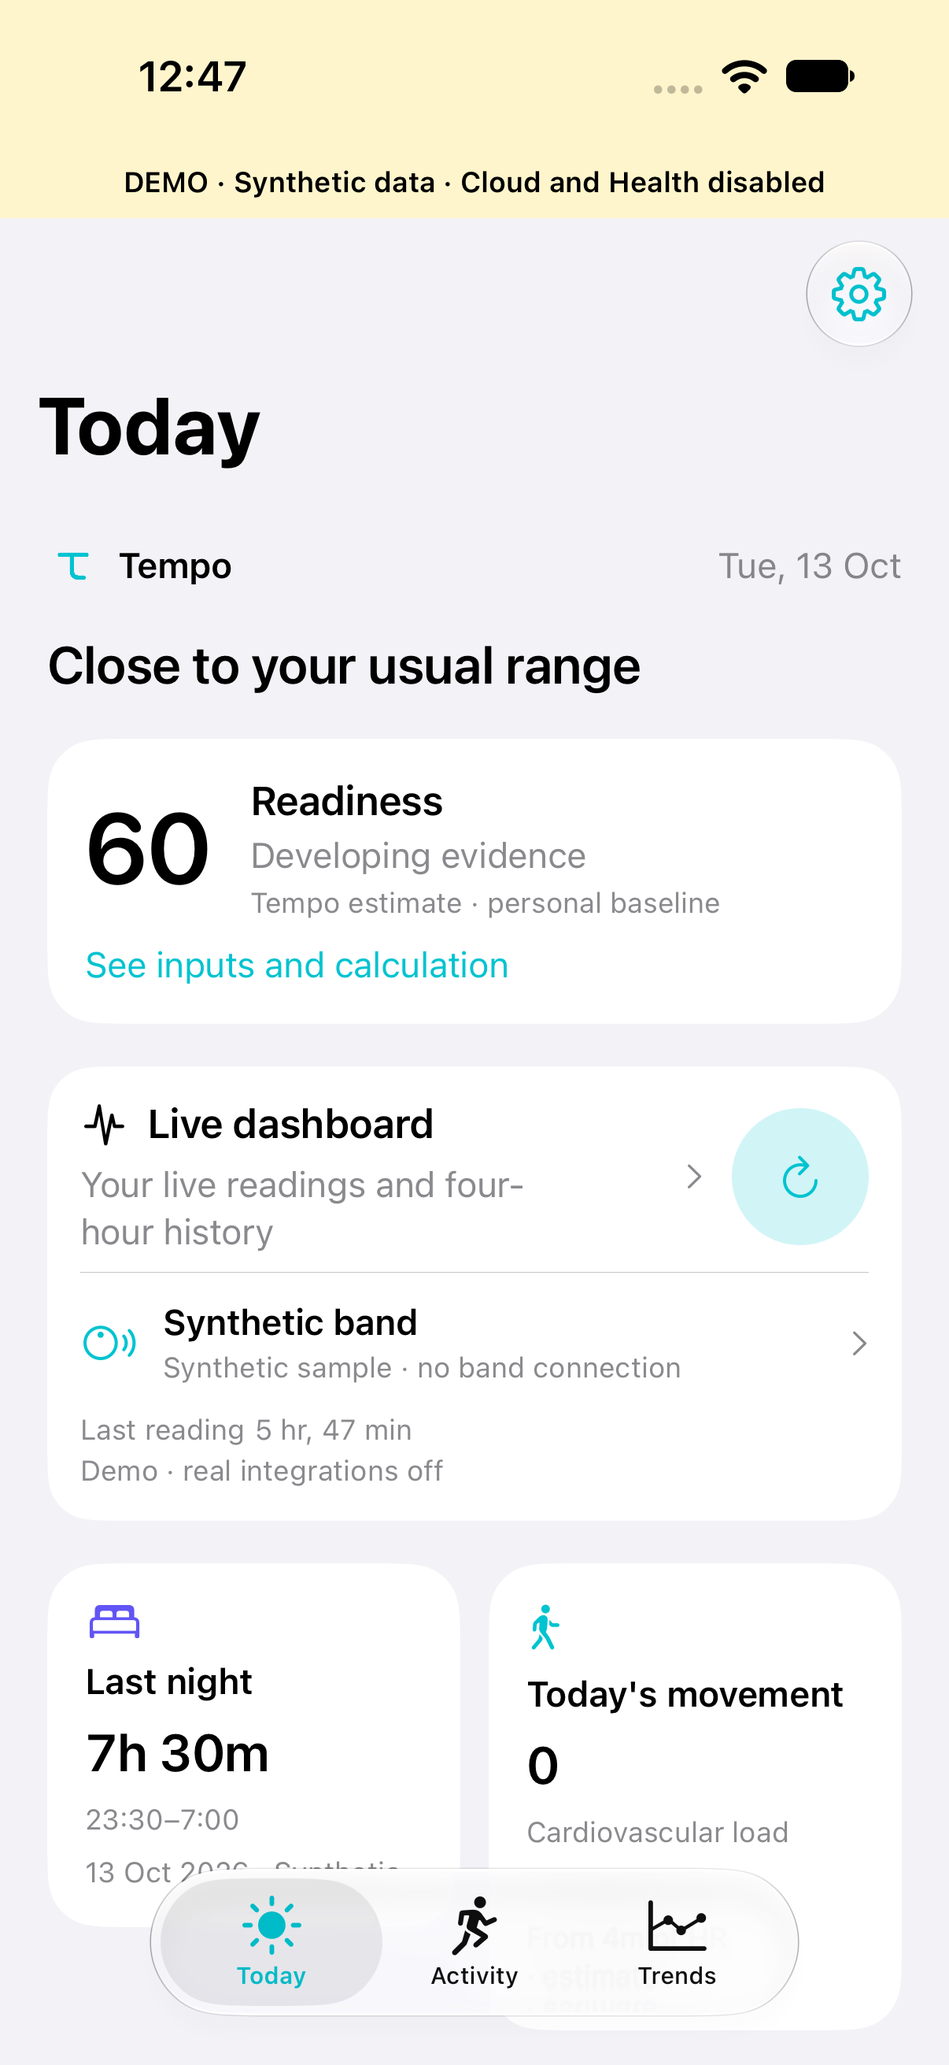
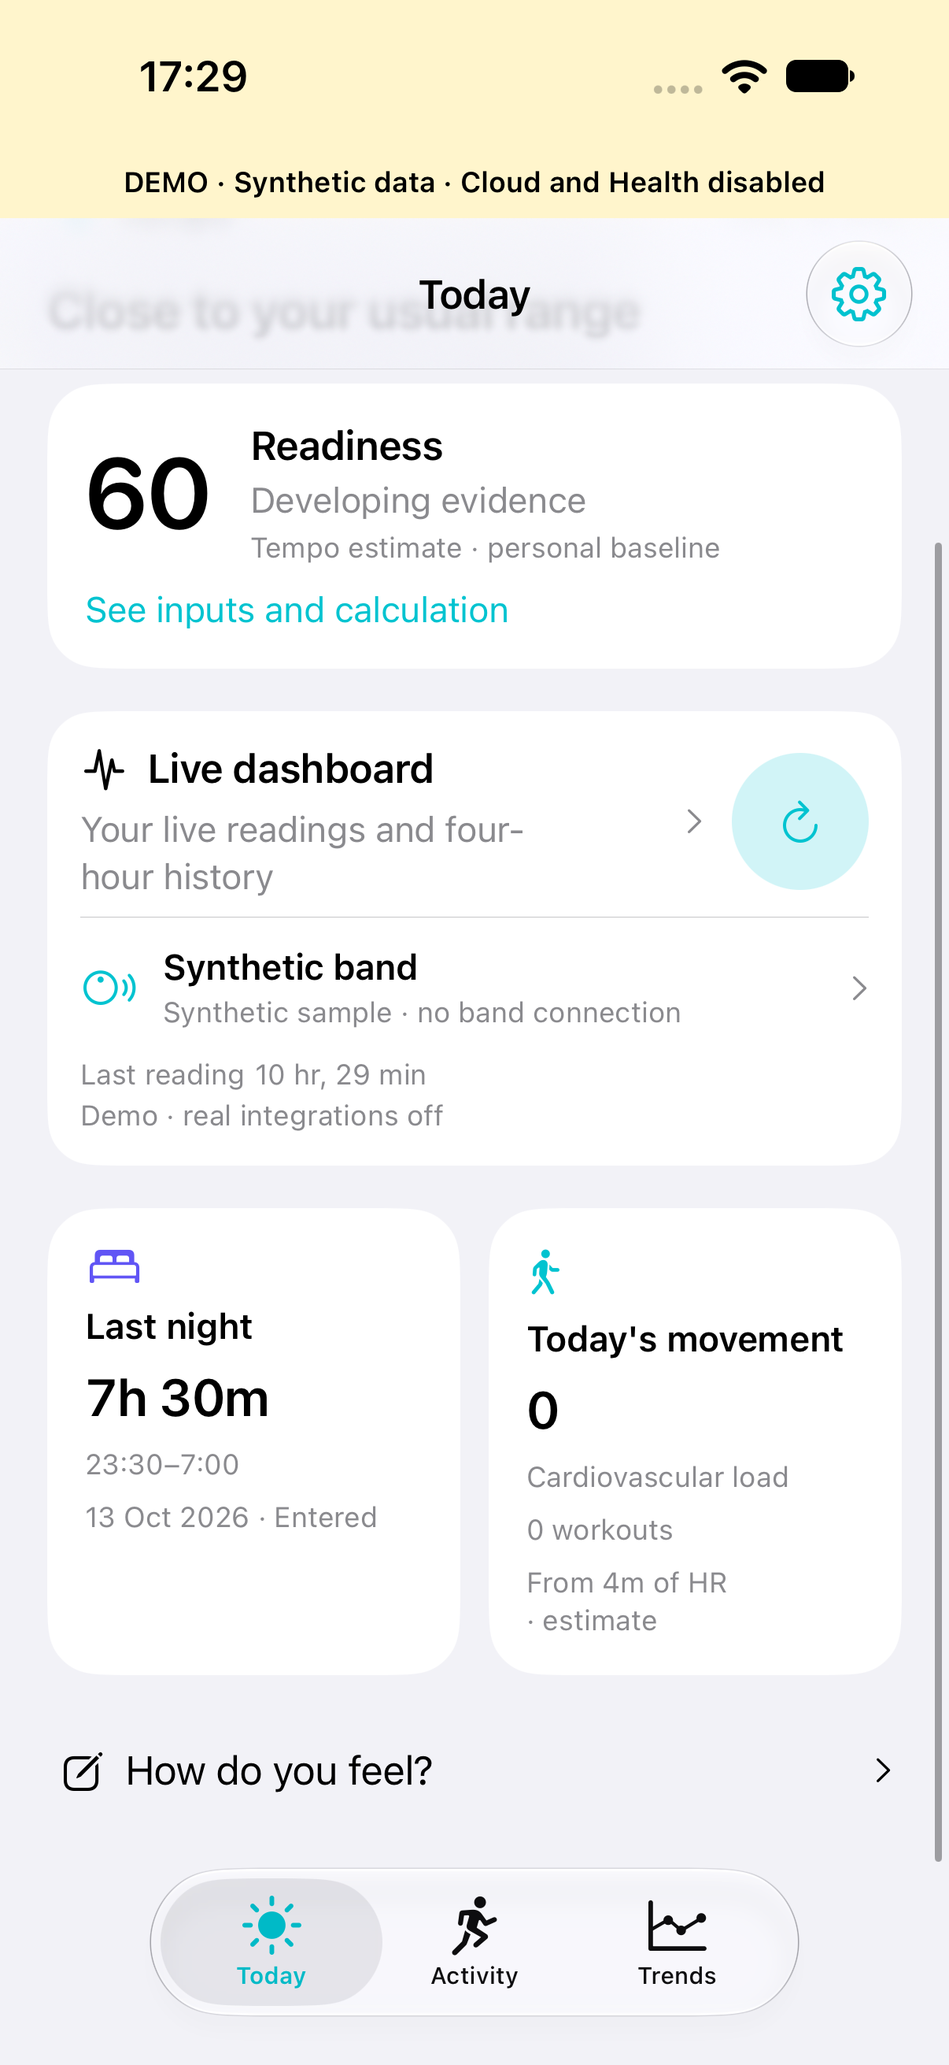
Equalize Today cards and add dedicated daily movement evidence

diff --git a/Tempo/Views/TodayView.swift b/Tempo/Views/TodayView.swift
@@ -59,12 +59,12 @@ struct TodayView: View {
         TodayCollectionPanel()
         if textSize.isAccessibilitySize {
           sleepSummary(latestSleep)
-          movementSummary
+          movementSummary()
         } else {
           HStack(alignment: .top, spacing: 12) {
-            sleepSummary(latestSleep)
-            movementSummary
-          }
+            sleepSummary(latestSleep, fillHeight: true)
+            movementSummary(fillHeight: true)
+          }.fixedSize(horizontal: false, vertical: true)
         }
         if let candidate = model.sleepCandidates.first {
           VStack(alignment: .leading, spacing: 12) {
@@ -116,7 +116,7 @@ struct TodayView: View {
   private var calculationLink: some View {
     NavigationLink("See inputs and calculation") { ReadinessDetailView() }.font(.subheadline)
   }
-  private func sleepSummary(_ value: SleepPresentation) -> some View {
+  private func sleepSummary(_ value: SleepPresentation, fillHeight: Bool = false) -> some View {
     Group {
       if let last = value.session {
         NavigationLink {
@@ -135,7 +135,7 @@ struct TodayView: View {
               "\(last.end.formatted(date: .abbreviated, time: .omitted)) · \(last.origin == .manual ? "Entered" : last.origin.rawValue.capitalized)"
             )
             .font(.caption).foregroundStyle(.secondary)
-          }.frame(maxWidth: .infinity, alignment: .leading).contentShape(Rectangle())
+          }.frame(maxWidth: .infinity, maxHeight: fillHeight ? .infinity : nil, alignment: .topLeading).contentShape(Rectangle())
         }.buttonStyle(.plain).tint(.primary)
       } else {
         VStack(alignment: .leading, spacing: 8) {
@@ -147,12 +147,12 @@ struct TodayView: View {
           Button("Add sleep") { sleep = true }.font(.subheadline)
         }.frame(maxWidth: .infinity, alignment: .leading)
       }
-    }.padding(16).frame(maxWidth: .infinity, alignment: .topLeading).background(
+    }.padding(16).frame(maxWidth: .infinity, maxHeight: fillHeight ? .infinity : nil, alignment: .topLeading).background(
       cardBackground, in: RoundedRectangle(cornerRadius: 22))
   }
-  private var movementSummary: some View {
+  private func movementSummary(fillHeight: Bool = false) -> some View {
     NavigationLink {
-      ActivityView()
+      TodayMovementDetailView()
     } label: {
       VStack(alignment: .leading, spacing: 8) {
         Image(systemName: "figure.walk").foregroundStyle(.teal).accessibilityHidden(true)
@@ -173,9 +173,10 @@ struct TodayView: View {
         } else {
           Text("More HR needed").font(.caption).foregroundStyle(.secondary)
         }
-      }.frame(maxWidth: .infinity, alignment: .leading).contentShape(Rectangle())
-        .padding(16).background(cardBackground, in: RoundedRectangle(cornerRadius: 22))
+      }.frame(maxWidth: .infinity, maxHeight: fillHeight ? .infinity : nil, alignment: .topLeading).contentShape(Rectangle())
     }.buttonStyle(.plain).tint(.primary)
+      .padding(16).frame(maxWidth: .infinity, maxHeight: fillHeight ? .infinity : nil, alignment: .topLeading)
+      .background(cardBackground, in: RoundedRectangle(cornerRadius: 22))
   }
   private func baselineProgress(_ result: ReadinessResult) -> some View {
     VStack(alignment: .leading, spacing: 8) {
@@ -249,5 +250,77 @@ struct ReadinessDetailView: View {
       }
       Section("Algorithm") { Text(readiness.algorithmVersion) }
     }.navigationTitle("Readiness explained")
+  }
+}
+
+
+/// Descriptive daily evidence, separate from the manual workout workflow.
+struct TodayMovementDetailView: View {
+  @Environment(AppModel.self) var model
+  var body: some View {
+    List {
+      if let load = model.todayLoad, load.coveredSeconds > 60 {
+        Section {
+          VStack(alignment: .leading, spacing: 8) {
+            Label("Cardiovascular load", systemImage: "figure.walk")
+              .font(.subheadline).foregroundStyle(.teal)
+            Text(String(format: "%.0f points", load.points))
+              .font(.largeTitle.weight(.semibold)).monospacedDigit()
+            Text("Today's accumulated estimate from recorded heart rate")
+              .font(.subheadline).foregroundStyle(.secondary)
+          }.padding(.vertical, 8)
+          MetricRow(label: "Recorded coverage", value: durationText(load.coveredSeconds))
+          if let average = load.average {
+            MetricRow(label: "Recorded average", value: String(format: "%.0f bpm", average))
+          }
+          if let maximum = load.maximum {
+            MetricRow(label: "Recorded high", value: String(format: "%.0f bpm", maximum))
+          }
+        } footer: {
+          Text("Describes recorded periods, not your entire day. Gaps and unqualified readings do not contribute.")
+        }
+        Section("Recorded intensity") {
+          let below = max(0, load.coveredSeconds - load.zones.reduce(0, +))
+          if below > load.coveredSeconds / 2 {
+            Text("Most covered time was below your training zones.").font(.headline)
+          } else {
+            Text("\(durationText(load.zones.reduce(0, +))) recorded within your training zones.")
+              .font(.headline)
+          }
+          MetricRow(label: "Below 50% of maximum HR", value: durationText(below))
+          MetricRow(label: "At or above 70% of maximum HR",
+            value: durationText(load.zones.dropFirst(2).reduce(0, +)))
+          Text("These are descriptions of the recorded data, not activity classification or training advice.")
+            .font(.caption).foregroundStyle(.secondary)
+        }
+        Section {
+          ForEach(0..<5, id: \.self) { index in
+            VStack(alignment: .leading, spacing: 6) {
+              MetricRow(label: "Zone \(index + 1) · \(50 + index * 10)–\(index == 4 ? 100 : 60 + index * 10)%",
+                value: durationText(load.zones[index]))
+              ProgressView(value: load.zones[index], total: max(1, load.coveredSeconds))
+                .tint(.teal).accessibilityLabel("Zone \(index + 1) share of covered time")
+            }.padding(.vertical, 4)
+          }
+        } header: { Text("Time in zones") } footer: {
+          Text("Zone 5 includes readings above 100%. Zones use your configured maximum HR of \(Int(model.maxHeartRate)) bpm.")
+        }
+        Section {
+          DisclosureGroup("How load is calculated") {
+            Text("Edwards load: minutes in zones 1–5 weighted by 1–5, then added together. Time below 50% of maximum HR contributes no points.")
+            Text("Only reconciled, quality-eligible HR contributes. Intervals longer than ten seconds are excluded; overlapping sources are not added twice.")
+            Text("Heart rate does not capture muscular load. This is separate from readiness and does not reproduce Whoop's proprietary strain score.")
+          }.font(.subheadline).foregroundStyle(.secondary)
+          NavigationLink("Inspect recorded heart rate") { LiveDashboardView() }
+        }
+      } else {
+        Section {
+          ContentUnavailableView("Building today's picture", systemImage: "figure.walk",
+            description: Text("More than a minute of qualifying heart rate is needed. Unsupported or missing measurements are not treated as zero movement."))
+          NavigationLink("Inspect recorded heart rate") { LiveDashboardView() }
+        }
+      }
+    }.navigationTitle("Today's movement")
+      .refreshable { await model.refreshToday() }
   }
 }

diff --git a/Tests/TempoUITests/TempoUITests.swift b/Tests/TempoUITests/TempoUITests.swift
@@ -641,3 +641,52 @@ extension TempoUITests {
     XCTAssertTrue(app.navigationBars["Sleep"].waitForExistence(timeout: 5))
   }
 }
+
+extension TempoUITests {
+  @MainActor func testTodaySummaryCardsHaveEqualHeight() {
+    let app = XCUIApplication()
+    app.launchArguments = ["--ui-testing", "--demo"]
+    app.launch()
+    let settings = app.buttons["Bands, sync and settings"]
+    XCTAssertTrue(settings.waitForExistence(timeout: 20))
+    wait(for: [expectation(for: NSPredicate(format: "enabled == true"), evaluatedWith: settings)], timeout: 30)
+    let sleep = app.buttons["today-sleep-summary"].firstMatch
+    let movement = app.buttons["today-movement-summary"].firstMatch
+    XCTAssertTrue(sleep.waitForExistence(timeout: 5))
+    XCTAssertTrue(movement.exists)
+    XCTAssertEqual(sleep.frame.minY, movement.frame.minY, accuracy: 1)
+    XCTAssertEqual(sleep.frame.height, movement.frame.height, accuracy: 1)
+    sleep.tap()
+    app.buttons["Correct timing"].tap()
+    app.buttons["Save"].tap()
+    XCTAssertTrue(app.staticTexts["Manually entered"].waitForExistence(timeout: 10))
+    app.navigationBars.buttons.firstMatch.tap()
+    XCTAssertTrue(sleep.waitForExistence(timeout: 5))
+    XCTAssertEqual(sleep.frame.minY, movement.frame.minY, accuracy: 1)
+    XCTAssertEqual(sleep.frame.height, movement.frame.height, accuracy: 1)
+    app.swipeUp()
+    let shot = XCTAttachment(screenshot: app.screenshot())
+    shot.name = "today-equal-cards-demo"
+    shot.lifetime = .keepAlways
+    add(shot)
+  }
+}
+
+extension TempoUITests {
+  @MainActor func testTodayMovementOpensDailyEvidenceInsteadOfWorkouts() {
+    let app = XCUIApplication()
+    app.launchArguments = ["--ui-testing", "--demo"]
+    app.launch()
+    let settings = app.buttons["Bands, sync and settings"]
+    XCTAssertTrue(settings.waitForExistence(timeout: 20))
+    wait(for: [expectation(for: NSPredicate(format: "enabled == true"), evaluatedWith: settings)], timeout: 30)
+    app.buttons["today-movement-summary"].firstMatch.tap()
+    XCTAssertTrue(app.navigationBars["Today's movement"].waitForExistence(timeout: 5))
+    XCTAssertTrue(app.staticTexts["Recorded coverage"].exists)
+    XCTAssertFalse(app.buttons["Start Padel"].exists)
+    let shot = XCTAttachment(screenshot: app.screenshot())
+    shot.name = "movement-detail-demo"
+    shot.lifetime = .keepAlways
+    add(shot)
+  }
+}

diff --git a/README.md b/README.md
@@ -128,7 +128,7 @@ These are real screenshots captured from Tempo running in the iOS simulator, wit
 
 [<img src="docs/screenshots/live-dashboard-demo.png" width="240" alt="Live dashboard with clearly labelled synthetic heart rate and coverage">](docs/screenshots/live-dashboard-demo.png)
 
-All seventeen captures come from successful simulator tests. Today now uses a native large title, a prominent live-reading entry, compact readiness and paired sleep/movement summaries. At accessibility text sizes the daily summaries stack vertically. Collection comes first while a baseline builds; unavailable readiness has compact progress instead of an empty score. Activity puts sport selection and Start first, with focused recording controls and a cancelable Finish alert. Trends puts the typical recorded day and recorded-day coverage above one focused chart. Select a point or an accessible daily row to inspect evidence; missing days stay empty. Same-dataset refreshes retain the chart and selected day. Sleep remains a separate session view. Live puts the current/recent reading and a larger four-hour chart first, with 15-minute and one-hour options. Coverage shows the percentage of the selected period recorded; blank periods remain visible. Chart methodology and source evidence expand on demand. Pull-to-refresh requests band collection and enabled cloud sync. Pull down or tap Refresh on Today to check collection and request enabled cloud sync. Journal puts Energy, Soreness and Mood first, with optional context and same-day editing. Workout details put notes/exertion ahead of collapsible measurement evidence. Capture provenance and checksums are in [the screenshot manifest](docs/screenshots/capture-manifest.json). Sleep detail now leads with duration and recorded-zone timing, followed by a separate heart-rate receipt chart and coverage; correction and provenance remain accessible.
+All eighteen captures come from successful simulator tests. Today now uses a native large title, a prominent live-reading entry, compact readiness and paired sleep/movement summaries. The paired sleep/movement cards have equal content-driven heights; at accessibility text sizes they stack vertically. Tapping movement opens daily load, coverage and zone evidence directly. Collection comes first while a baseline builds; unavailable readiness has compact progress instead of an empty score. Activity puts sport selection and Start first, with focused recording controls and a cancelable Finish alert. Trends puts the typical recorded day and recorded-day coverage above one focused chart. Select a point or an accessible daily row to inspect evidence; missing days stay empty. Same-dataset refreshes retain the chart and selected day. Sleep remains a separate session view. Live puts the current/recent reading and a larger four-hour chart first, with 15-minute and one-hour options. Coverage shows the percentage of the selected period recorded; blank periods remain visible. Chart methodology and source evidence expand on demand. Pull-to-refresh requests band collection and enabled cloud sync. Pull down or tap Refresh on Today to check collection and request enabled cloud sync. Journal puts Energy, Soreness and Mood first, with optional context and same-day editing. Workout details put notes/exertion ahead of collapsible measurement evidence. Capture provenance and checksums are in [the screenshot manifest](docs/screenshots/capture-manifest.json). Sleep detail now leads with duration and recorded-zone timing, followed by a separate heart-rate receipt chart and coverage; correction and provenance remain accessible.
 
 | Baseline building · empty test dataset | Band status · empty test dataset | Sleep trends · synthetic demo |
 |---|---|---|
@@ -330,3 +330,9 @@ The latest integrity bug pass and its remaining acceptance gates are recorded in
 [<img src="docs/screenshots/sleep-detail-demo.png" width="280" alt="Tempo sleep detail with explicitly synthetic duration, timing and partial heart-rate coverage">](docs/screenshots/sleep-detail-demo.png)
 
 Actual simulator capture with synthetic data. The chart shows recorded periods and leaves gaps visible; it is separate from recovery inputs.
+
+### Daily movement evidence
+
+[<img src="docs/screenshots/movement-detail-demo.png" width="280" alt="Tempo daily movement evidence using synthetic heart rate and partial coverage">](docs/screenshots/movement-detail-demo.png)
+
+The page explains daily cardiovascular load and recorded intensity independently of manual workouts.

diff --git a/docs/Verification.md b/docs/Verification.md
@@ -2,6 +2,13 @@
 
 Software verification is separate from physical collection acceptance.
 
+## Today card sizing and movement details
+
+-150 core tests passed. Card equality first failed for both top alignment and height, then passed after intrinsic-height/layout correction, including a saved manual sleep revision matching the reported case.
+- The dedicated movement route regression first failed against ActivityView, then passed with daily load/coverage/intensity details. Three selected card/movement/large-text-dark Today flows passed; the final card/manual-save and movement rerun passed both tests. Two further empty-data/battery flows passed. This was targeted verification, not a full UI suite.
+- Populated card frame equality is asserted; the empty-data layout was visually inspected with matching card bounds. Accessibility text retains stacked cards; the existing maximum-text-dark Today navigation check passed. The new movement detail does not yet have a dedicated maximum-text test.
+- Signed Release build succeeded and installed. Fresh synthetic Today/manual-sleep, movement, battery and empty captures were inspected and their manifests updated. Read-only review found no important blockers. No load or sleep algorithm changed.
+
 ## Sleep detail refinement
 
 - All150 core tests passed. All three final-source simulator checks passed and cover sleep detail, saved-origin revision refresh, adding another session, and maximum-text dark-mode access to correction controls. The initial new detail test failed before the new headline/latest-revision projection existed. A large-text test initially targeted the child label instead of its accessible button; the corrected button interaction passed.
@@ -26,7 +33,7 @@ Software verification is separate from physical collection acceptance.
 
 ## UI and capture evidence
 
-Seventeen unmodified simulator screenshots use isolated synthetic or empty datasets; checksums/test provenance are in screenshots/capture-manifest.json. The separate Settings gear, source-band percentage, missing-data states, sleep review and Live dashboard have simulator coverage. Live BPM/workout timers are isolated from the dashboard list/history; physical smoothness and CPU profiling remain D05. Synthetic records never enter the normal cloud dataset.
+Eighteen unmodified simulator screenshots use isolated synthetic or empty datasets; checksums/test provenance are in screenshots/capture-manifest.json. The separate Settings gear, source-band percentage, missing-data states, sleep review and Live dashboard have simulator coverage. Live BPM/workout timers are isolated from the dashboard list/history; physical smoothness and CPU profiling remain D05. Synthetic records never enter the normal cloud dataset.
 
 ## Physical collection evidence and remaining gates
 

diff --git a/docs/Analytics.md b/docs/Analytics.md
@@ -81,3 +81,9 @@ The page retains its chart and selected day during refreshes of the same metric,
 Sleep detail reads the latest saved revision for the session ID. The duration/timing summary uses the recorded timezone; elapsed duration is independent of daylight-saving changes. A separate bounded HR receipt view retains original readings through the existing canonical timeline and chart reducer. Its covered-time average and contiguous coverage exclude gaps longer than ten seconds; isolated readings remain points even when an average is unavailable. The view queries at most100,000 HR observations and labels limit-hit results incomplete. Descriptive receipt coverage does not qualify unresolved sensor flags for recovery analytics. Recovery inputs continue to use the existing quality-gated methodology.
 
 Timing corrections use the existing revision path; deletion requires confirmation and preserves original observations. This presentation change adds no sleep-stage classification, detection algorithm or physiological estimate.
+
+### Today movement evidence
+
+Tapping Today's movement opens a dedicated daily evidence page rather than the manual workout picker. It reads the same quality-gated, reconciled LoadResult used by Today: covered-time HR average, recorded maximum, Edwards points and five zone durations. Below-zone time is coveredSeconds minus the sum of zones; higher-intensity time is the sum of zones3–5 (at least70% of configured maximumHR). Zone5 includes values above100%. Durations describe qualifying recorded intervals, not an inferred full day or identified sport. No advice, comparative fitness score or new physiological algorithm is introduced. Fewer than or equal to60 seconds of qualifying coverage remains unavailable.
+
+Paired Today sleep/movement cards use content-driven equal heights; the taller card determines the row height. Accessibility DynamicType keeps the existing vertical stack. No fixed card height or repeated geometry/state measurement is used.

diff --git a/docs/Completed.md b/docs/Completed.md
@@ -46,3 +46,5 @@ Compact index only: ID · outcome · commit · verification. Remove closed ticke
 - UX11 — Trends now leads with a descriptive period median, recorded-day coverage and daily range; chart/day selection survive same-dataset refreshes, including sleep. Methodology moves below the chart; unfinished insights are labelled unavailable. Verified: 150 core tests, two final simulator standard/maximum-text-dark flows, inspected fresh synthetic captures, signed Release build/install and read-only review. Physical performance and collection gates remain open.
 
 - UX12 — Sleep detail leads with duration and recorded-zone timing, bounded HR receipt chart/coverage and separate recovery inputs. Sparse readings remain visible; latest saved revisions refresh the detail; deletion requires confirmation. Verified: 150 core tests, three final simulator sleep/save/add/maximum-text-dark flows, inspected synthetic capture, signed Release build/install and read-only review. UI save test checks origin refresh, not a changed duration. No sleep algorithm changed.
+
+- UX13/UX14 — Today sleep/movement cards share the taller content-driven height, including manual sleep, while accessibility text stays stacked. Movement opens daily load/coverage/intensity/zones and methodology directly. Verified150 core tests, targeted card/manual-save/movement/large-text-dark/empty/battery flows, fresh labelled captures, signed Release install and read-only review; no analytical algorithm change.

diff --git a/docs/screenshots/README.md b/docs/screenshots/README.md
@@ -20,3 +20,5 @@ Screen captures demonstrate software layout and navigation only. They must not b
 The current Trends and sleep-Trends images were refreshed by `testTrendsSelectsOneMetricAndAccessibleDayEvidence`, from its successful final-source simulator run. The Trends overview shows recorded-day coverage and a descriptive median; these remain synthetic examples, not physical sensor validation.
 
 Sleep detail was captured by `testSleepDetailLeadsWithTimingAndUpdatesCorrection` from the successful final-source run. It uses isolated synthetic data and deliberately displays only partial HR coverage. The original PNG was inspected and copied without postprocessing.
+
+Today equal-card capture comes from `testTodaySummaryCardsHaveEqualHeight`, including a manual sleep revision inside the isolated demo dataset. Daily movement evidence comes from `testTodayMovementOpensDailyEvidenceInsteadOfWorkouts`. Empty Today and demo battery captures were also refreshed by their successful tests. These images retain original simulator pixels and disclose synthetic/empty data.
